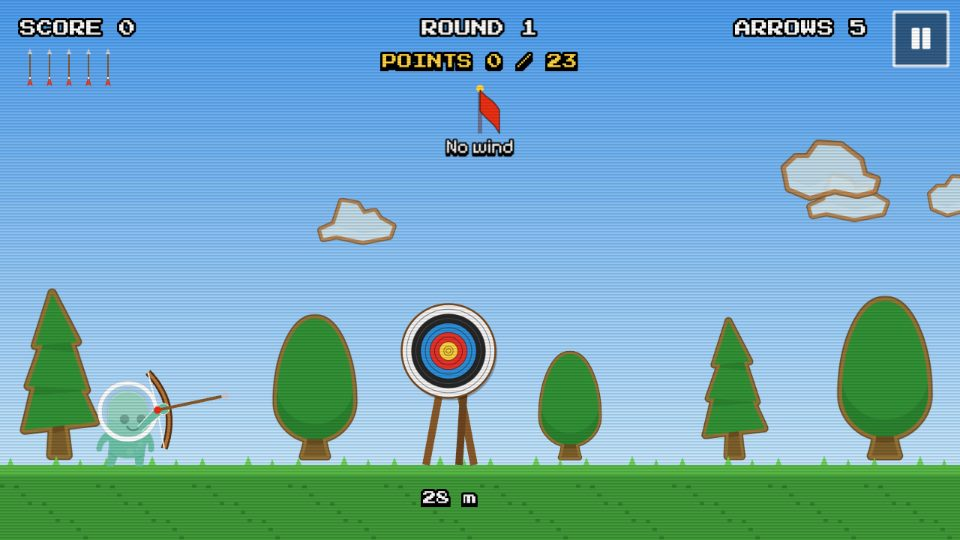
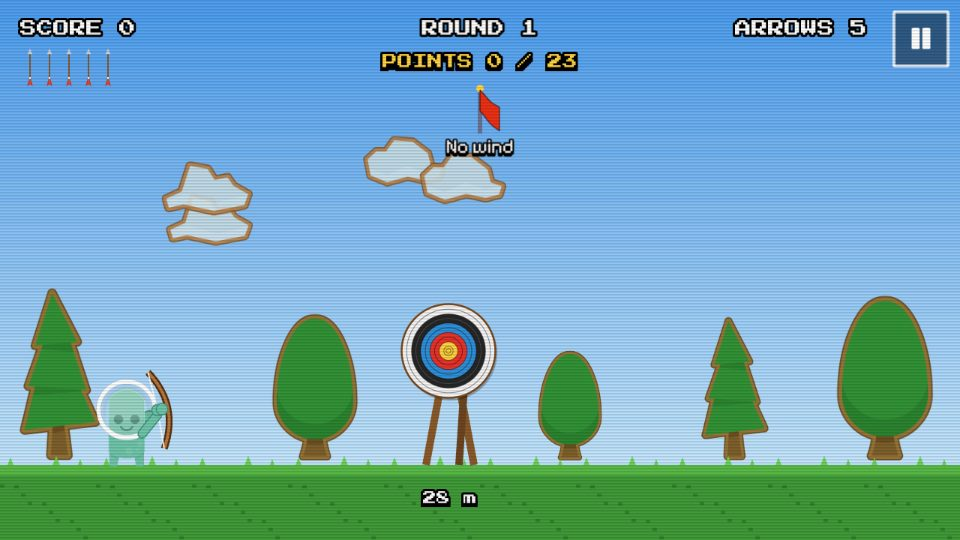
Archery: the archer holds the bow with its own two arms
The character's sprite kept its arms hanging at its sides while a third, drawn arm held the
bow. The archer is now the character without arms, and two posed arms hold the grip and draw
the string, moving with the aim and the pull.

- tools/import-characters.py builds rig parts for every character: archer.png (armless, same
  frame), arm.png, hand.png and the shoulder points (src/core/character-rig.json). The human
  figures are rebuilt from Kenney's limb parts with the aiming face; the aliens get their side
  arms erased and capsule arms in their body colour
- Core: CHARACTER_PARTS, characterRig()
- Archery: the bow arm reaches from the front shoulder to the grip, the drawing arm (behind the
  body) from the far shoulder to the nock; the hands sit on the grip and the string. A cleared
  round hops with the bow, a failed one tints the archer red
- Docs: skill, asset index; store art for Archery

Claude-Session: https://claude.ai/code/session_0175vXZr811A8hQZq6oHnsLr

diff --git a/games/archery/PlayScene.ts b/games/archery/PlayScene.ts
@@ -1,6 +1,6 @@
 import Phaser from 'phaser';
-import { ArcadeScene, Controls, burst, shake, flash, popup, txt, t, rng } from '@core';
-import { W, H, GROUND, RING_COLORS, ARCHER_SCALE, ARCHER_ORIGIN_Y, handColor, makeArcheryTextures } from './art';
+import { ArcadeScene, CHARACTER_FRAME, Controls, burst, characterRig, playerCharacter, shake, flash, popup, txt, t, rng } from '@core';
+import { W, H, GROUND, RING_COLORS, ARCHER_SCALE, ARCHER_ORIGIN_Y, makeArcheryTextures } from './art';
 
 const BX = 214;            // bow hand
 const BY = GROUND - 74;
@@ -52,8 +52,14 @@ export class PlayScene extends ArcadeScene {
   private clouds: Phaser.GameObjects.Image[] = [];
   private offMark!: Phaser.GameObjects.Triangle;
   private archer!: Phaser.GameObjects.Image;
+  // The archer is the character without arms (pc-archer); these arms hold the bow and draw the
+  // string, posed every frame from the shoulders (character rig) to the grip and the nock.
+  private bowArm!: Phaser.GameObjects.Image;
+  private drawArm!: Phaser.GameObjects.Image;
+  private bowHand!: Phaser.GameObjects.Image;
+  private drawHand!: Phaser.GameObjects.Image;
+  private rig = characterRig(playerCharacter());
   private wave = 0;
-  private hand = 0x6fc4a9;
 
   createGame(): void {
     makeArcheryTextures(this);
@@ -73,9 +79,14 @@ export class PlayScene extends ArcadeScene {
 
     this.stand = this.add.graphics().setDepth(1);
     this.face = this.add.image(this.tx, this.ty, 'face').setDepth(2);
-    this.archer = this.add.image(ARCHER_X, GROUND + 2, 'pc-stand').setOrigin(0.5, ARCHER_ORIGIN_Y).setScale(ARCHER_SCALE).setDepth(5);
-    this.hand = handColor();
-    this.bowG = this.add.graphics().setDepth(6);
+    this.archer = this.add.image(ARCHER_X, GROUND + 2, 'pc-archer').setOrigin(0.5, ARCHER_ORIGIN_Y).setScale(ARCHER_SCALE).setDepth(5);
+    this.rig = characterRig(playerCharacter());
+    const shoulderY = 4 / this.rig.arm[1];   // pivot a few px below the top of the arm
+    this.drawArm = this.add.image(0, 0, 'pc-arm').setOrigin(0.5, shoulderY).setDepth(4);   // far arm, behind the body
+    this.bowG = this.add.graphics().setDepth(7);
+    this.bowArm = this.add.image(0, 0, 'pc-arm').setOrigin(0.5, shoulderY).setDepth(8);
+    this.drawHand = this.add.image(0, 0, 'pc-hand').setScale(ARCHER_SCALE).setDepth(9);
+    this.bowHand = this.add.image(0, 0, 'pc-hand').setScale(ARCHER_SCALE).setDepth(9);
     this.flagG = this.add.graphics().setDepth(3);
     for (let i = 0; i < 9; i++) this.dots.push(this.add.image(0, 0, 'dot').setDepth(7).setVisible(false));
     this.offMark = this.add.triangle(0, 30, 0, 18, 12, 0, 24, 18, 0xec3013).setDepth(50).setVisible(false);
@@ -252,10 +263,10 @@ export class PlayScene extends ArcadeScene {
     const bonus = 20 * this.round + Math.max(0, this.roundScore - this.need) * 5;
     this.addScore(bonus);
     this.sfx('pass', { volume: 0.7, exact: true });
-    this.archer.setTexture('pc-jump');
+    // a happy hop, bow in hand (the arms follow the archer every frame)
     this.tweens.add({
       targets: this.archer, y: GROUND - 22, duration: 220, yoyo: true, repeat: 1, ease: 'Sine.easeOut',
-      onComplete: () => { this.archer.setTexture('pc-stand'); this.archer.y = GROUND + 2; },
+      onComplete: () => { this.archer.y = GROUND + 2; },
     });
     const b = txt(this, W / 2, H * 0.36, t('roundClear'), { title: true, size: 46, color: '#5dff7a', strokeThickness: 12 }).setDepth(80).setScale(0.3);
     const s = txt(this, W / 2, H * 0.36 + 64, `${this.roundScore} / ${this.need}   +${bonus}`, { title: true, size: 24, color: '#ffd23f' }).setDepth(80);
@@ -267,7 +278,7 @@ export class PlayScene extends ArcadeScene {
   private failRound(): void {
     this.phase = 'between';
     this.sfx('fail', { volume: 0.7 });
-    this.archer.setTexture('pc-hit');
+    for (const o of [this.archer, this.bowArm, this.drawArm, this.bowHand, this.drawHand]) o.setTint(0xff9a9a);
     shake(this, 0.01, 250);
     this.endGame({ title: t('roundFail'), delay: 900 });
   }
@@ -382,14 +393,10 @@ export class PlayScene extends ArcadeScene {
     // string
     const [sx1, sy1] = P(-6, -52), [sx2, sy2] = P(-6, 52), [nx, ny] = P(-pull, shakeAmt);
     g.lineStyle(2, 0xffffff, 0.9).lineBetween(sx1, sy1, nx, ny).lineBetween(nx, ny, sx2, sy2);
-    // grip hand and drawing arm
-    // both arms start at the character's shoulder (the body is shorter than the old alien's)
-    const [shx, shy] = [ARCHER_X + 16, this.archer.y - 50];
-    g.lineStyle(9, 0xffffff, 0.9).lineBetween(shx, shy, ...P(4, 0)).lineBetween(shx, shy, nx, ny);
-    g.lineStyle(7, this.hand).lineBetween(shx, shy, ...P(4, 0));
-    g.lineStyle(7, this.hand).lineBetween(shx, shy, nx, ny);
-    g.fillStyle(0xffffff, 0.9).fillCircle(...P(4, 0), 8);
-    g.fillStyle(this.hand).fillCircle(...P(4, 0), 7);
+    // arms: the front shoulder holds the grip, the back shoulder draws the string at the nock
+    const [gx, gy] = P(2, 0);
+    this.poseArm(this.bowArm, this.bowHand, this.rig.shoulders[1], gx, gy);
+    this.poseArm(this.drawArm, this.drawHand, this.rig.shoulders[0], nx, ny);
     // nocked arrow
     if (this.phase === 'aim' || this.phase === 'between') {
       if (this.phase === 'aim') {
@@ -405,6 +412,18 @@ export class PlayScene extends ArcadeScene {
       const col = this.power > 0.85 ? 0xec3013 : this.power > 0.5 ? 0xffd23f : 0x5dff7a;
       g.fillStyle(col).fillRect(BX - 78, GROUND + 26, 156 * this.power, 14);
     }
+  }
+
+  /** Points an arm from a shoulder (frame px of the rig) to a hand position in the world. */
+  private poseArm(arm: Phaser.GameObjects.Image, hand: Phaser.GameObjects.Image, shoulder: [number, number], hx: number, hy: number): void {
+    const sx = this.archer.x + (shoulder[0] - CHARACTER_FRAME.width / 2) * ARCHER_SCALE;
+    const sy = this.archer.y + (shoulder[1] - CHARACTER_FRAME.height * CHARACTER_FRAME.originY) * ARCHER_SCALE;
+    const dist = Math.hypot(hx - sx, hy - sy);
+    // the arm image hangs down from the shoulder; it stretches or shortens to reach the hand
+    const length = this.rig.arm[1] * ARCHER_SCALE;
+    arm.setPosition(sx, sy).setRotation(Math.atan2(hy - sy, hx - sx) - Math.PI / 2)
+      .setScale(ARCHER_SCALE, ARCHER_SCALE * Phaser.Math.Clamp(dist / length, 0.45, 2.2));
+    hand.setPosition(hx, hy).setRotation(arm.rotation);
   }
 
   private drawPreview(): void {

diff --git a/src/core/characters.ts b/src/core/characters.ts
@@ -1,6 +1,7 @@
 import Phaser from 'phaser';
 import { asset } from './assets';
 import { sdk } from './sdk';
+import RIG from './character-rig.json';
 
 // Player characters (protocol 2.2): players pick one of ten characters in their ayvago.com profile
 // and the platform sends the id in GHA_START (`character`, and `peerCharacter` in online matches).
@@ -29,6 +30,27 @@ export const CHARACTER_POSES = [
 ] as const;
 
 export type CharacterPose = (typeof CHARACTER_POSES)[number];
+
+/**
+ * Parts for games that pose the arms themselves (Archery): `archer` is the character facing
+ * front without arms, on the same frame as the poses; `arm` (shoulder at the top centre) and
+ * `hand` are drawn on their own, rotated towards what the hands hold.
+ */
+export const CHARACTER_PARTS = ['archer', 'arm', 'hand'] as const;
+
+export type CharacterPart = (typeof CHARACTER_PARTS)[number];
+
+export type CharacterRig = {
+  /** Left and right shoulder on the 144x176 frame, where the arms attach. */
+  shoulders: [[number, number], [number, number]];
+  /** Size of the `arm` image in px: width and length from shoulder to wrist. */
+  arm: [number, number];
+};
+
+/** Shoulder points and arm size of a character, built by tools/import-characters.py. */
+export function characterRig(id: CharacterId): CharacterRig {
+  return (RIG as Record<CharacterId, CharacterRig>)[id];
+}
 
 /**
  * Every pose of every character shares one frame: 144x176, feet 2 px above the bottom edge,
@@ -69,8 +91,8 @@ export function otherCharacters(...exclude: CharacterId[]): CharacterId[] {
   return CHARACTER_IDS.filter((id) => !exclude.includes(id));
 }
 
-/** URL of one pose. */
-export function characterUrl(id: CharacterId, pose: CharacterPose): string {
+/** URL of one pose or part. */
+export function characterUrl(id: CharacterId, pose: CharacterPose | CharacterPart): string {
   return asset(`characters/${id}/${pose}.png`);
 }
 
@@ -80,7 +102,7 @@ export function characterUrl(id: CharacterId, pose: CharacterPose): string {
  */
 export function loadCharacter(
   load: Phaser.Loader.LoaderPlugin,
-  options: { id?: CharacterId; prefix?: string; poses?: readonly CharacterPose[] } = {},
+  options: { id?: CharacterId; prefix?: string; poses?: readonly (CharacterPose | CharacterPart)[] } = {},
 ): void {
   const { id = playerCharacter(), prefix = 'pc', poses = CHARACTER_POSES } = options;
   for (const pose of poses) load.image(`${prefix}-${pose}`, characterUrl(id, pose));

diff --git a/games/archery/art.ts b/games/archery/art.ts
@@ -1,5 +1,5 @@
 import Phaser from 'phaser';
-import { CHARACTER_FRAME, playerCharacter, type CharacterId } from '@core';
+import { CHARACTER_FRAME } from '@core';
 
 export const W = 1280;
 export const H = 720;
@@ -8,16 +8,6 @@ export const GROUND = 620;
 // The archer is the player's character, 114 px tall standing (as the old 0.62-scale alien), feet on the turf.
 export const ARCHER_SCALE = 114 / CHARACTER_FRAME.standHeight;
 export const ARCHER_ORIGIN_Y = CHARACTER_FRAME.originY;
-
-// Skin (or glove) colour of each character, for the drawn arms that hold the bow.
-const HAND: Record<CharacterId, number> = {
-  'alien-green': 0x6fc4a9, 'alien-blue': 0x8db5e7, 'alien-pink': 0xf19cb7, 'alien-yellow': 0xffcc00,
-  'alien-beige': 0xe0d1af, adventurer: 0xffe0b1, explorer: 0xffe0b1, rookie: 0xffe0b1, soldier: 0x8c6e40,
-  zombie: 0x2ecc71,
-};
-export function handColor(): number {
-  return HAND[playerCharacter()];
-}
 
 /** WA-style ten ring face: white, black, blue, red, gold (two rings each). */
 export const RING_COLORS = [0xf4f4f4, 0xf4f4f4, 0x262626, 0x262626, 0x2f8fd8, 0x2f8fd8, 0xe8332a, 0xe8332a, 0xffd23f, 0xffd23f];

diff --git a/src/core/index.ts b/src/core/index.ts
@@ -17,10 +17,10 @@ export { storage, getBest } from './storage';
 export { sdk } from './sdk';
 export { net } from './net';
 export {
-  CHARACTER_IDS, CHARACTER_POSES, CHARACTER_FRAME, DEFAULT_CHARACTER,
-  isCharacterId, playerCharacter, peerCharacter, otherCharacters, characterUrl, loadCharacter,
+  CHARACTER_IDS, CHARACTER_POSES, CHARACTER_PARTS, CHARACTER_FRAME, DEFAULT_CHARACTER,
+  isCharacterId, playerCharacter, peerCharacter, otherCharacters, characterUrl, characterRig, loadCharacter,
 } from './characters';
-export type { CharacterId, CharacterPose } from './characters';
+export type { CharacterId, CharacterPose, CharacterPart, CharacterRig } from './characters';
 export type { NetHandler } from './net';
 export { playAyvagoIntro, INTRO_DURATION } from './intro';
 export type { GameDefinition, GameMeta, Genre } from './registry';

diff --git a/games/archery/main.ts b/games/archery/main.ts
@@ -12,8 +12,8 @@ launch({
   physics: 'none',
   preload(scene) {
     const l = scene.load;
-    // the player's chosen character: pc-stand (aiming), pc-jump (round cleared), pc-hit (round failed)
-    loadCharacter(l, { poses: ['stand', 'jump', 'hit'] });
+    // the player's chosen character: pc-stand on the menu; in play the armless pc-archer with arms posed on the bow
+    loadCharacter(l, { poses: ['stand', 'archer', 'arm', 'hand'] });
     l.image('cloud1', kenney(SG + 'cloud1.png'));
     l.image('cloud2', kenney(SG + 'cloud2.png'));
     l.image('tree_oak', kenney(SG + 'tree_oak.png'));

diff --git a/tools/import-characters.py b/tools/import-characters.py
@@ -2,6 +2,9 @@
 packs: the aliens of Platformer Pack Redux (already in public/assets/kenney/platformer) and the five
 figures of Platformer Characters 1 (from a checkout of the ETdoFresh/kenney.nl mirror).
 
+It also builds an armless `archer` body with separate `arm` and `hand` parts and writes their
+shoulder points to src/core/character-rig.json, for games that pose the arms themselves (Archery).
+
 Every pose lands on the same 144x176 canvas: the character is scaled so its standing pose is 150 px
 tall, its feet sit 2 px above the bottom edge and its standing pose is centred, so games can swap
 characters without touching sizes or offsets.
@@ -12,7 +15,8 @@ import json
 import os
 import sys
 
-from PIL import Image
+import numpy as np
+from PIL import Image, ImageDraw
 
 ROOT = os.path.dirname(os.path.dirname(os.path.abspath(__file__)))
 OUT = os.path.join(ROOT, 'public', 'assets', 'characters')
@@ -30,13 +34,26 @@ FIGURE_POSE = {'front': 'idle', 'hit': 'hurt'}
 
 def sources(mirror):
     for cid, stem in ALIENS.items():
-        yield cid, {p: os.path.join(ALIEN_DIR, f'{stem}_{p}.png') for p in POSES}
+        files = {p: os.path.join(ALIEN_DIR, f'{stem}_{p}.png') for p in POSES}
+        yield cid, files, alien_rig(files['front'])
     base = os.path.join(mirror, 'kenney_platformercharacters', 'PNG')
     for cid, stem in FIGURES.items():
-        yield cid, {p: os.path.join(base, f'{stem}_{FIGURE_POSE.get(p, p)}.png') for p in POSES}
+        files = {p: os.path.join(base, f'{stem}_{FIGURE_POSE.get(p, p)}.png') for p in POSES}
+        limbs = os.path.join(base, stem.split('/')[0], 'Limbs')
+        yield cid, files, figure_rig(limbs, os.path.join(base, f'{stem}_idle.png'))
 
 
-def build(cid, files):
+def place(img, scale, ox, oy):
+    big = img.resize((round(img.width * scale), round(img.height * scale)), Image.LANCZOS)
+    canvas = Image.new('RGBA', (W, H))
+    if ox >= 0 and oy >= 0:
+        canvas.alpha_composite(big, (round(ox), round(oy)))
+    else:
+        canvas.paste(big, (round(ox), round(oy)), big)
+    return canvas
+
+
+def build(cid, files, rig_source):
     stand = Image.open(files['stand']).convert('RGBA')
     sx0, sy0, sx1, sy1 = stand.getbbox()
     scale = TARGET / (sy1 - sy0)
@@ -46,22 +63,104 @@ def build(cid, files):
     oy = H - FOOT - sy1 * scale
     os.makedirs(os.path.join(OUT, cid), exist_ok=True)
     for pose, path in files.items():
-        img = Image.open(path).convert('RGBA')
-        big = img.resize((round(img.width * scale), round(img.height * scale)), Image.LANCZOS)
-        canvas = Image.new('RGBA', (W, H))
-        canvas.alpha_composite(big, (round(ox), round(oy))) if ox >= 0 and oy >= 0 else canvas.paste(big, (round(ox), round(oy)), big)
+        canvas = place(Image.open(path).convert('RGBA'), scale, ox, oy)
         if canvas.getbbox() is None:
             raise SystemExit(f'{cid} {pose}: empty frame')
         canvas.save(os.path.join(OUT, cid, f'{pose}.png'), optimize=True)
+    body, arm, hand, shoulders = rig_source()
+    place(body, scale, ox, oy).save(os.path.join(OUT, cid, 'archer.png'), optimize=True)
+    for name, part in (('arm', arm), ('hand', hand)):
+        part.resize((round(part.width * scale), round(part.height * scale)), Image.LANCZOS) \
+            .save(os.path.join(OUT, cid, f'{name}.png'), optimize=True)
+    return {
+        'shoulders': [[round(ox + x * scale), round(oy + y * scale)] for x, y in shoulders],
+        'arm': [round(arm.width * scale), round(arm.height * scale)],
+    }
+
+
+def _find(img, tpl):
+    """Top-left of tpl inside img, by squared difference over the template's opaque pixels."""
+    a, t = np.asarray(img, np.float32), np.asarray(tpl, np.float32)
+    mask = t[..., 3] > 200
+    th, tw = mask.shape
+    best = None
+    for y in range(a.shape[0] - th + 1):
+        for x in range(a.shape[1] - tw + 1):
+            d = ((a[y:y + th, x:x + tw, :3] - t[..., :3])[mask] ** 2).mean()
+            if best is None or d < best[0]:
+                best = (d, x, y)
+    return best[1], best[2]
+
+
+def figure_rig(limbs, idle_path):
+    """Platformer Characters 1 ships each figure's limbs: rebuild the idle pose without its arms
+    (legs from the idle pose inside the body's columns, then the body, then the aiming head)."""
+    def rig():
+        idle = Image.open(idle_path).convert('RGBA')
+        head, focus, body, arm, hand = (Image.open(os.path.join(limbs, f)).convert('RGBA') for f in
+                                        ('head.png', 'head_focus.png', 'body_front.png', 'arm.png', 'hand.png'))
+        hx, hy = _find(idle, head)
+        bx, by = _find(idle, body)
+        out = Image.new('RGBA', idle.size)
+        top = by + body.height - 2
+        out.alpha_composite(idle.crop((bx, top, bx + body.width, idle.height)), (bx, top))
+        out.alpha_composite(body, (bx, by))
+        out.alpha_composite(focus, (hx, hy))
+        return out, arm, hand, [(bx + 5, by + 6), (bx + body.width - 5, by + 6)]
+    return rig
+
+
+def alien_rig(front_path):
+    """The aliens have no separate limbs: erase the arms beside the torso (keeping the white
+    helmet ring) and draw capsule arms in the body colour."""
+    def rig():
+        im = Image.open(front_path).convert('RGBA')
+        a = np.asarray(im).copy()
+        solid = a[..., 3] > 40
+        cx = solid.shape[1] // 2
+        hip = np.where(solid[:, cx])[0].max() - 6
+        left = right = cx
+        while left > 0 and solid[hip, left - 1]:
+            left -= 1
+        while right < solid.shape[1] - 1 and solid[hip, right + 1]:
+            right += 1
+        rgb = a[..., :3].astype(int)
+        white = (rgb.min(axis=2) > 200) & ((rgb.max(axis=2) - rgb.min(axis=2)) < 30)
+        top = np.where(solid.any(axis=1))[0].min()
+        erase = np.zeros_like(solid)
+        erase[top:hip + 1, :left - 1] = True
+        erase[top:hip + 1, right + 2:] = True
+        erase &= ~white & solid
+        # Shoulders: on the torso edges just below the helmet ring, where the arms hang from.
+        ring_bottom = int(np.where((white & solid).any(axis=1))[0].max())
+        shoulders = [(left + 5, ring_bottom - 6), (right - 5, ring_bottom - 6)]
+        torso = a[hip - 30:hip, left + 6:right - 6]
+        keep = (torso[..., 3] > 200) & ~white[hip - 30:hip, left + 6:right - 6]
+        colour = tuple(int(v) for v in np.median(torso[keep][:, :3], axis=0))
+        a[erase, 3] = 0
+        dark = tuple(max(0, c - 45) for c in colour)
+        arm = Image.new('RGBA', (17, 58))
+        d = ImageDraw.Draw(arm)
+        d.rounded_rectangle((0, 0, 16, 57), radius=8, fill=dark + (255,))
+        d.rounded_rectangle((2, 2, 14, 55), radius=6, fill=colour + (255,))
+        hand = Image.new('RGBA', (22, 22))
+        d = ImageDraw.Draw(hand)
+        d.ellipse((0, 0, 21, 21), fill=dark + (255,))
+        d.ellipse((2, 2, 19, 19), fill=colour + (255,))
+        return Image.fromarray(a), arm, hand, shoulders
+    return rig
 
 
 def main():
     if len(sys.argv) != 2:
         raise SystemExit(__doc__)
-    ids = []
-    for cid, files in sources(sys.argv[1]):
-        build(cid, files)
+    ids, rigs = [], {}
+    for cid, files, rig in sources(sys.argv[1]):
+        rigs[cid] = build(cid, files, rig)
         ids.append(cid)
+    with open(os.path.join(ROOT, 'src', 'core', 'character-rig.json'), 'w') as f:
+        json.dump(rigs, f, indent=2)
+        f.write('\n')
     with open(os.path.join(OUT, 'index.json'), 'w') as f:
         json.dump({'size': [W, H], 'poses': POSES, 'characters': ids}, f, indent=2)
         f.write('\n')

diff --git a/.claude/skills/ayvago-new-game/SKILL.md b/.claude/skills/ayvago-new-game/SKILL.md
@@ -105,7 +105,9 @@ Other helpers from `@core`:
   `pc-jump`, `pc-hit`, `pc-duck`, `pc-climb1/2`, `pc-swim1/2`. All frames share
   `CHARACTER_FRAME` (144x176, feet at `originY`): size the sprite by `standHeight`. Rivals and
   bots: `otherCharacters(playerCharacter())`; online opponent: `peerCharacter()`. Test any
-  character with `?character=<id>`. Pixel-art games keep their own sprites.
+  character with `?character=<id>`. A hero whose arms must hold something (a bow, a rope) uses
+  the rig parts instead: `pc-archer` (armless, same frame), `pc-arm` and `pc-hand`, posed from
+  `characterRig(id).shoulders` every frame (see `games/archery`). Pixel-art games keep their own sprites.
 - **Look before you use.** Open the PNGs or tilesheets with the Read tool to see them before picking frames.
 - **No network.** Never load anything from the network. If something is missing, draw it with Graphics/shapes, or generate a texture with `scene.make.graphics(...).generateTexture(key, w, h)`.
 - **Sound.** Use sounds generously but at sane volumes. Good sources:

diff --git a/docs/assets/INDEX.md b/docs/assets/INDEX.md
@@ -8,7 +8,7 @@ Load Kenney art with `kenney('<pack>/<path>')`; Kenney audio with
 
 | pack | images | sounds |
 |---|---|---|
-| characters | 110 | 0 |
+| characters | 140 | 0 |
 | alien-ufo | 46 | 0 |
 | animals | 60 | 0 |
 | boardgame | 523 | 0 |
@@ -64,4 +64,8 @@ The ten player characters players choose on ayvago.com (`src/core/characters.ts`
 `front`, `walk1`, `walk2`, `jump`, `hit`, `duck`, `climb1`, `climb2`, `swim1`, `swim2`. Every
 frame is 144x176 with the feet 2 px above the bottom and the standing pose 150 px tall, so one
 size and anchor fit all ten. Built by `tools/import-characters.py`.
+
+Rig parts for heroes that hold something with both hands: `archer.png` (the character facing front
+without arms, on the same frame), `arm.png` (shoulder at the top) and `hand.png`; the shoulder
+points and arm size are in `src/core/character-rig.json` (`characterRig(id)`).
 
